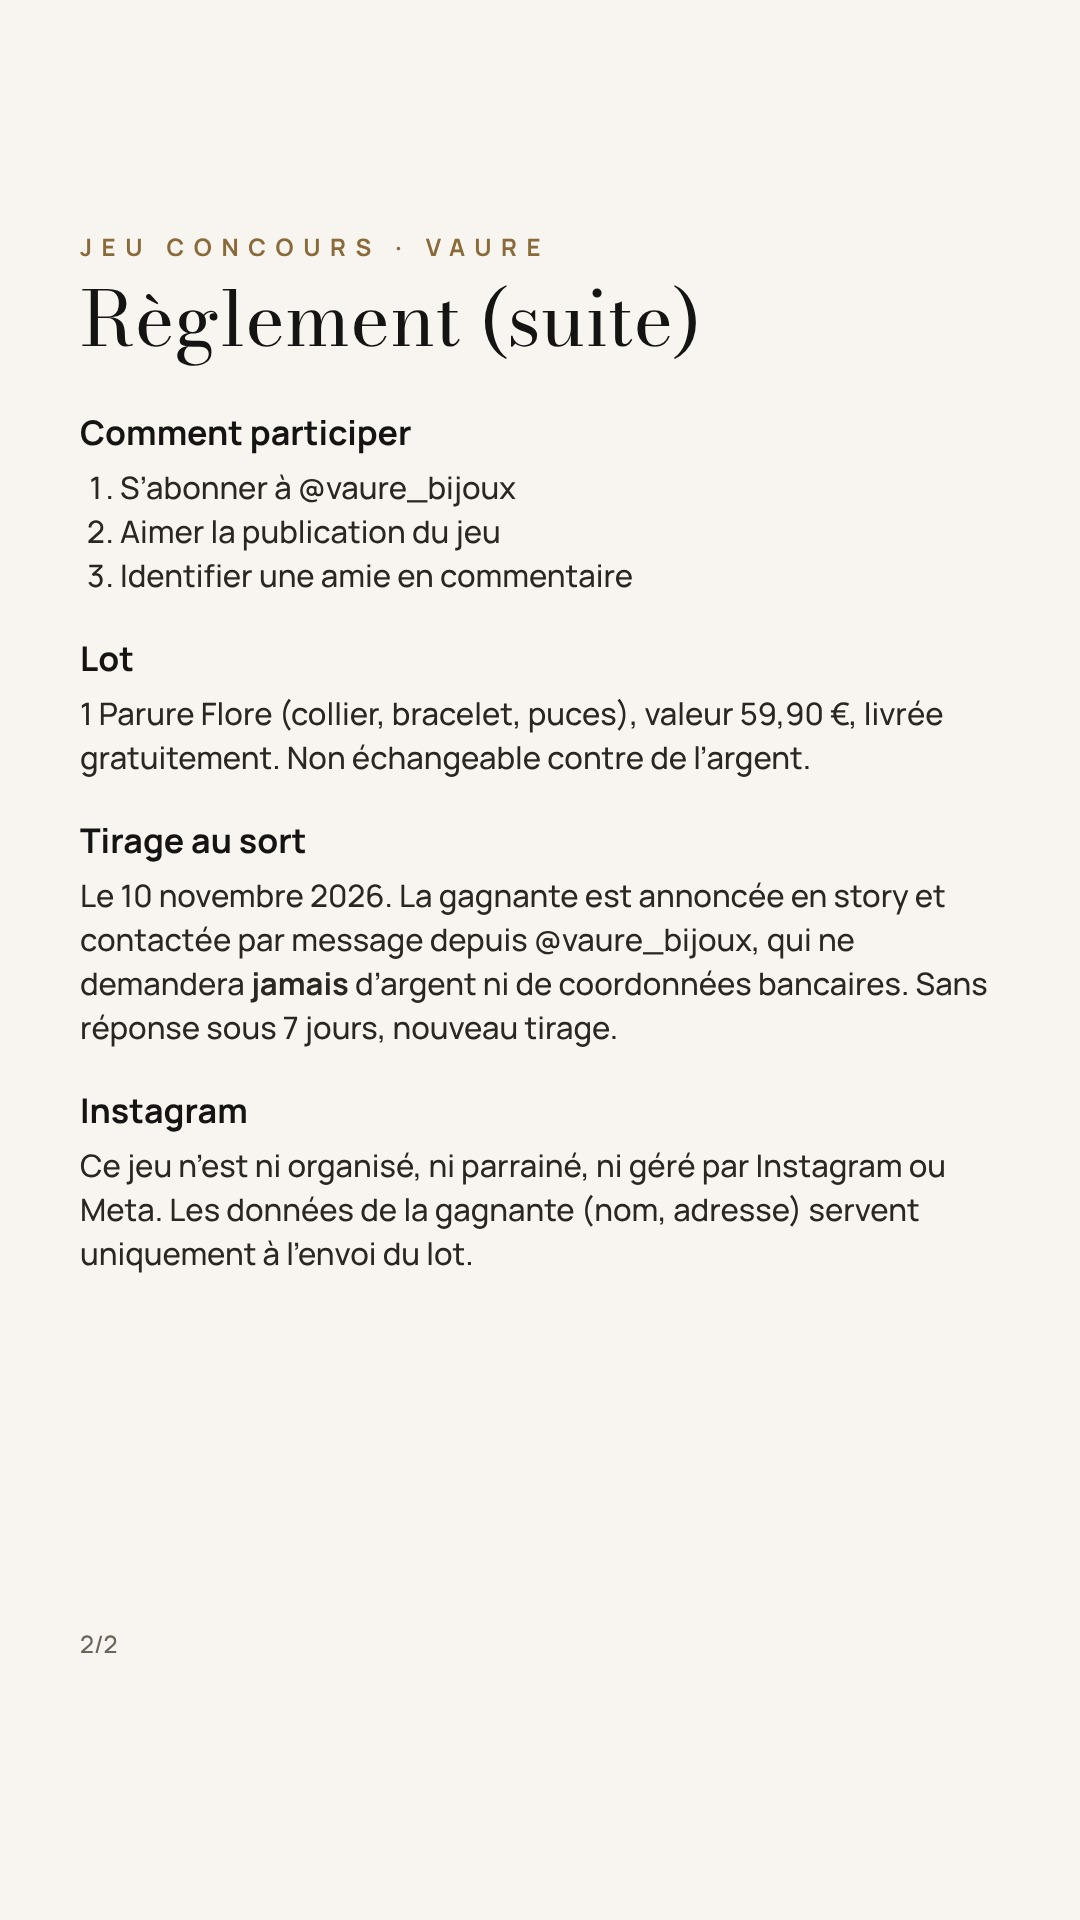
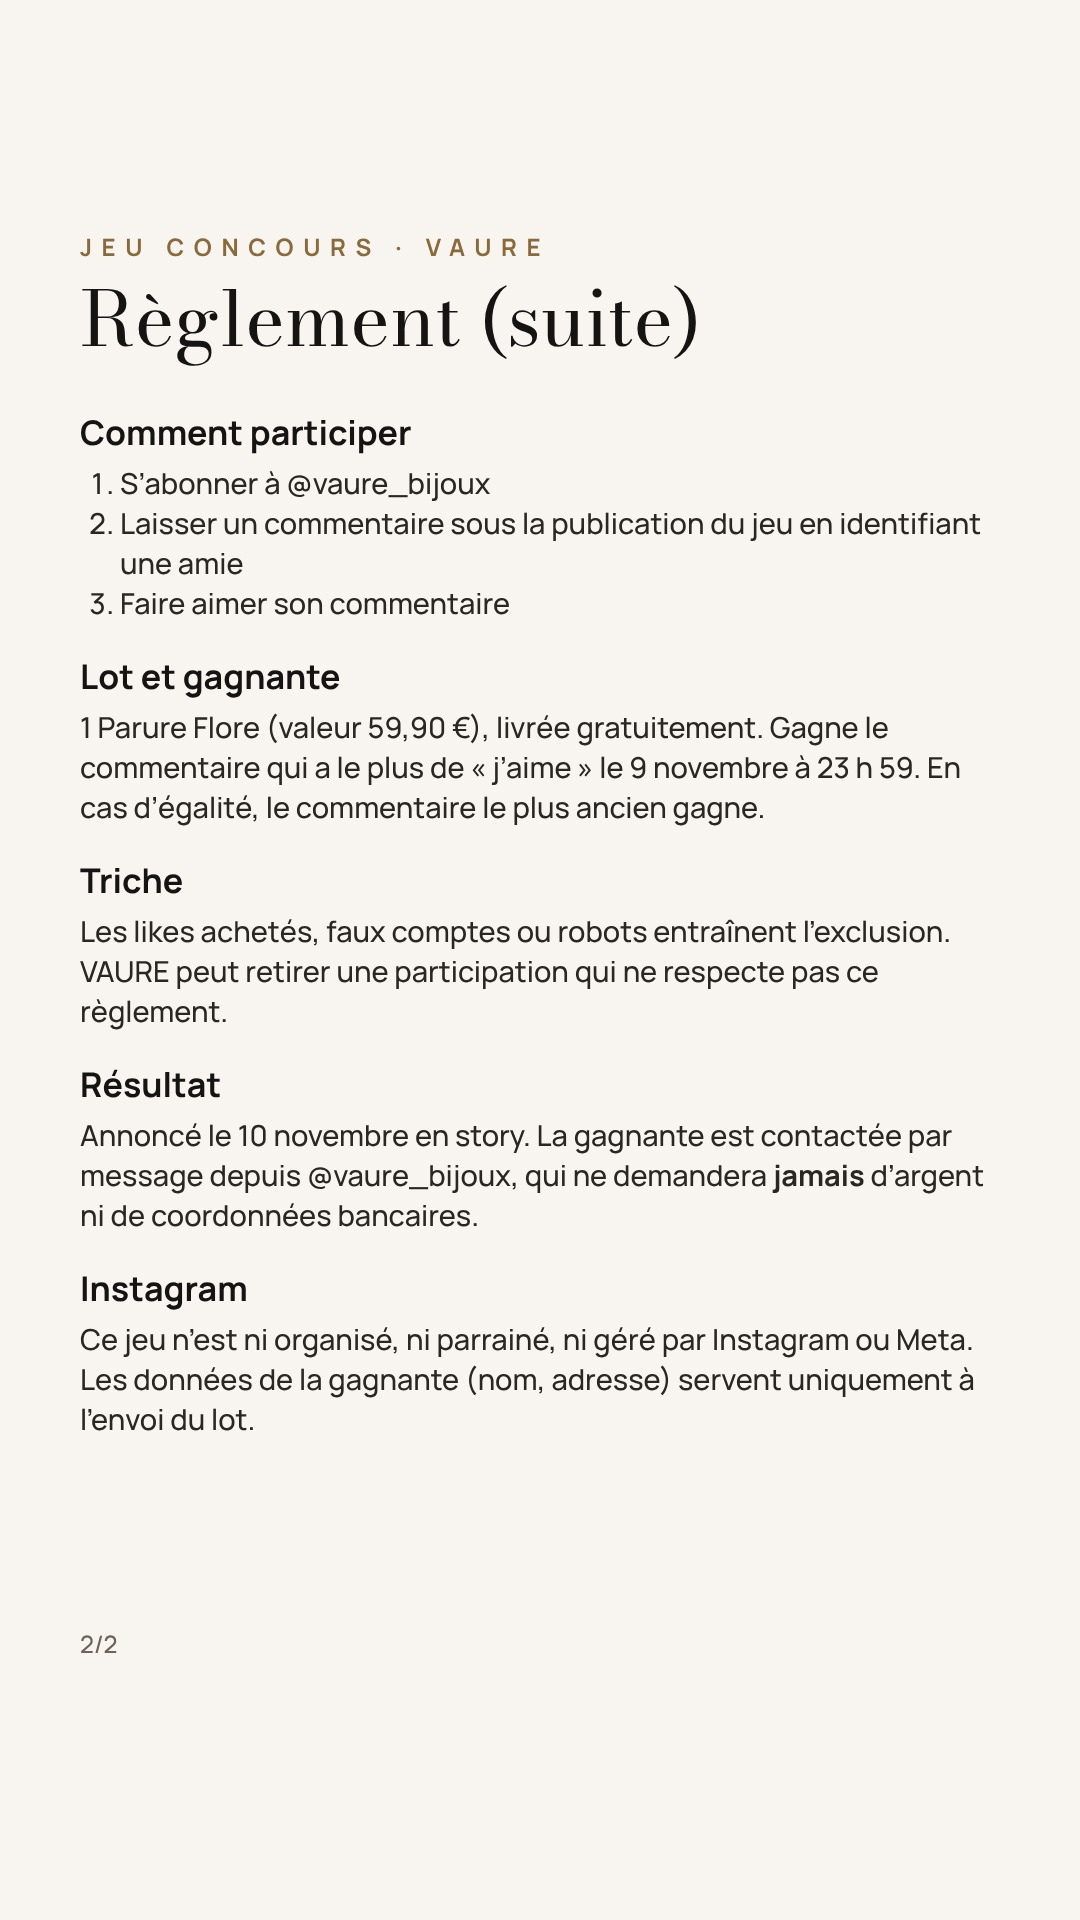
Jeu concours : commentaire le plus liké
Claude-Session: https://claude.ai/code/session_013s4U6wyjEEiqqasJXAgjhq

Changed region(s): [[0.0611, 0.25, 0.9167, 0.75]]

diff --git a/vaure/pubs/jeu-concours/legende.md b/vaure/pubs/jeu-concours/legende.md
@@ -1,6 +1,7 @@
-# Jeu concours « Gagne la Parure Flore »
+# Jeu concours « Gagne la Parure Flore » – commentaire le plus liké
 
-Dates : du mardi 3 novembre 18 h au lundi 9 novembre 23 h 59 · tirage le mardi 10 novembre.
+Dates : du mardi 3 novembre 18 h au lundi 9 novembre 23 h 59 · résultat le mardi 10 novembre.
+Gagnante : le commentaire avec le plus de « j'aime » le 9/11 à 23 h 59 (égalité : le plus ancien). Faire une capture d'écran à 23 h 59.
 Règlement : stories à la une « Concours » (vaure-reglement-1.jpg, vaure-reglement-2.jpg). Rien sur le site.
 
 Légende :
@@ -8,12 +9,12 @@ Légende :
 
 Pour participer :
 1⃣ Abonne-toi à @vaure_bijoux
-2⃣ Like ce post ❤
-3⃣ Identifie une amie en commentaire 👇
+2⃣ Commente en identifiant une amie 👇
+3⃣ Fais liker ton commentaire : le commentaire le plus liké gagne 🏆
 
-📅 Jusqu'au 9 novembre 23 h 59 · tirage au sort le 10 novembre
+📅 Jusqu'au 9 novembre 23 h 59 · résultat le 10 novembre
 🌍 France, Belgique, Suisse, Luxembourg, Monaco · 18 ans et plus
-Jeu gratuit, sans obligation d’achat. Règlement en story à la une « Concours ».
-Ce jeu n'est ni organisé ni parrainé par Instagram.
+Jeu gratuit, sans obligation d'achat. Likes achetés ou faux comptes = exclusion.
+Règlement en story à la une « Concours ». Ce jeu n'est ni organisé ni parrainé par Instagram.
 
 #jeuconcours #concoursinstagram #bijouxacier #giveaway #concoursbijoux
